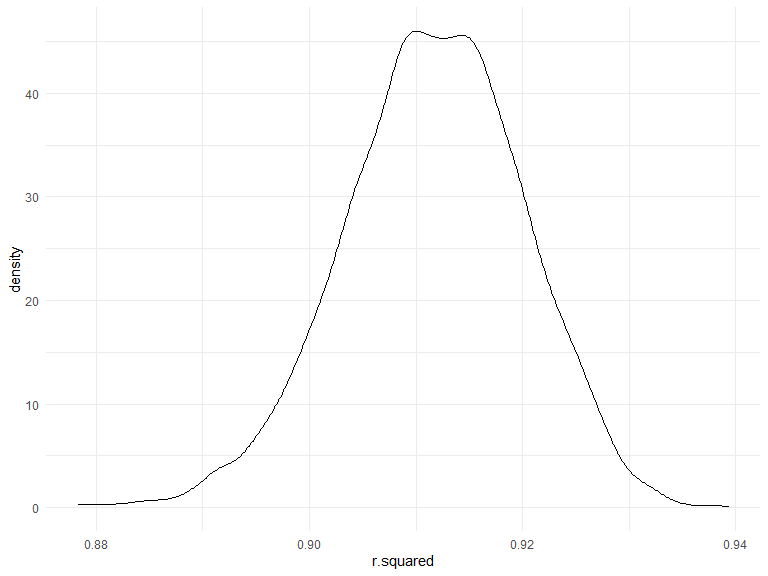
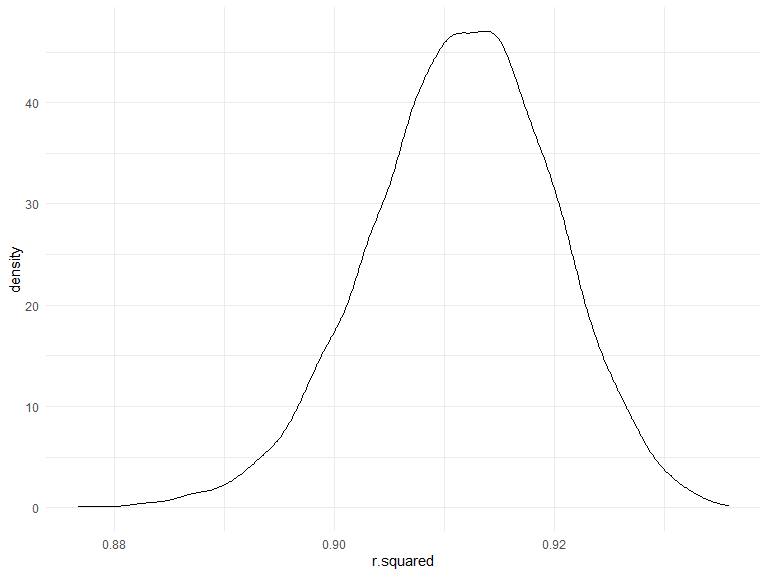
rerun

diff --git a/p8105_hw6_yc3883.md b/p8105_hw6_yc3883.md
@@ -144,9 +144,9 @@ model_1 %>%
     ## # A tibble: 3 x 5
     ##   term        estimate std.error statistic   p.value
     ##   <chr>          <dbl>     <dbl>     <dbl>     <dbl>
-    ## 1 (Intercept)  -6021.     109.       -55.5 0        
-    ## 2 bhead          145.       3.92      37.0 2.20e-253
-    ## 3 blength         85.5      2.32      36.8 1.72e-250
+    ## 1 (Intercept)  -5987.     109.       -55.0 0        
+    ## 2 bhead          148.       3.90      38.0 1.23e-264
+    ## 3 blength         82.7      2.31      35.9 3.61e-240
 
 ``` r
 model_2 %>% 
@@ -157,9 +157,9 @@ model_2 %>%
     ## # A tibble: 3 x 5
     ##   term        estimate std.error statistic   p.value
     ##   <chr>          <dbl>     <dbl>     <dbl>     <dbl>
-    ## 1 (Intercept)  -5154.     123.       -42.0 5.28e-312
-    ## 2 bhead          219.       3.78      57.8 0        
-    ## 3 gaweeks         23.0      1.91      12.1 7.96e- 33
+    ## 1 (Intercept)  -5143.     122.       -42.1 3.07e-313
+    ## 2 bhead          218.       3.78      57.5 0        
+    ## 3 gaweeks         23.9      1.94      12.3 4.24e- 34
 
 Comparing model\_1 and model\_2, model\_1 has a lower cross-validated
 prediction error. Also, the two predictors in model\_1 show a stronger
@@ -300,7 +300,7 @@ quantile(rs_est$r.squared, probs = c(0.025, 0.975))
 ```
 
     ##      2.5%     97.5% 
-    ## 0.8943058 0.9272037
+    ## 0.8940395 0.9270183
 
 ``` r
 ggp_rs_est = 
@@ -313,9 +313,9 @@ ggp_rs_est
 
 <img src="p8105_hw6_yc3883_files/figure-gfm/unnamed-chunk-10-1.png" width="90%" />
 
-The distribution of estimated r^2 has a mean of 0.9116419, which
+The distribution of estimated r^2 has a mean of 0.9115577, which
 represents a overrall strong association between “tmax” and “tmin”. The
-standard deviation of the distribution is 0.0084432.
+standard deviation of the distribution is 0.0083529.
 
 ## Problem 2 (c)
 
@@ -343,7 +343,7 @@ quantile(log_est$log_b0b1, probs = c(0.025, 0.975))
 ```
 
     ##     2.5%    97.5% 
-    ## 1.966280 2.058018
+    ## 1.965643 2.058466
 
 ``` r
 ggp_log_est = 
@@ -356,7 +356,7 @@ ggp_log_est
 
 <img src="p8105_hw6_yc3883_files/figure-gfm/unnamed-chunk-11-1.png" width="90%" />
 
-The distribution of estimated log(β0∗β1) has a mean of 2.0130477. The
-standard deviation of the distribution is 0.0233174. This distribution
+The distribution of estimated log(β0∗β1) has a mean of 2.0132576. The
+standard deviation of the distribution is 0.0236236. This distribution
 may be more approaching to a normal distribution compared with the
 estimated r^2 distribution, which has a little bit shift to right.
